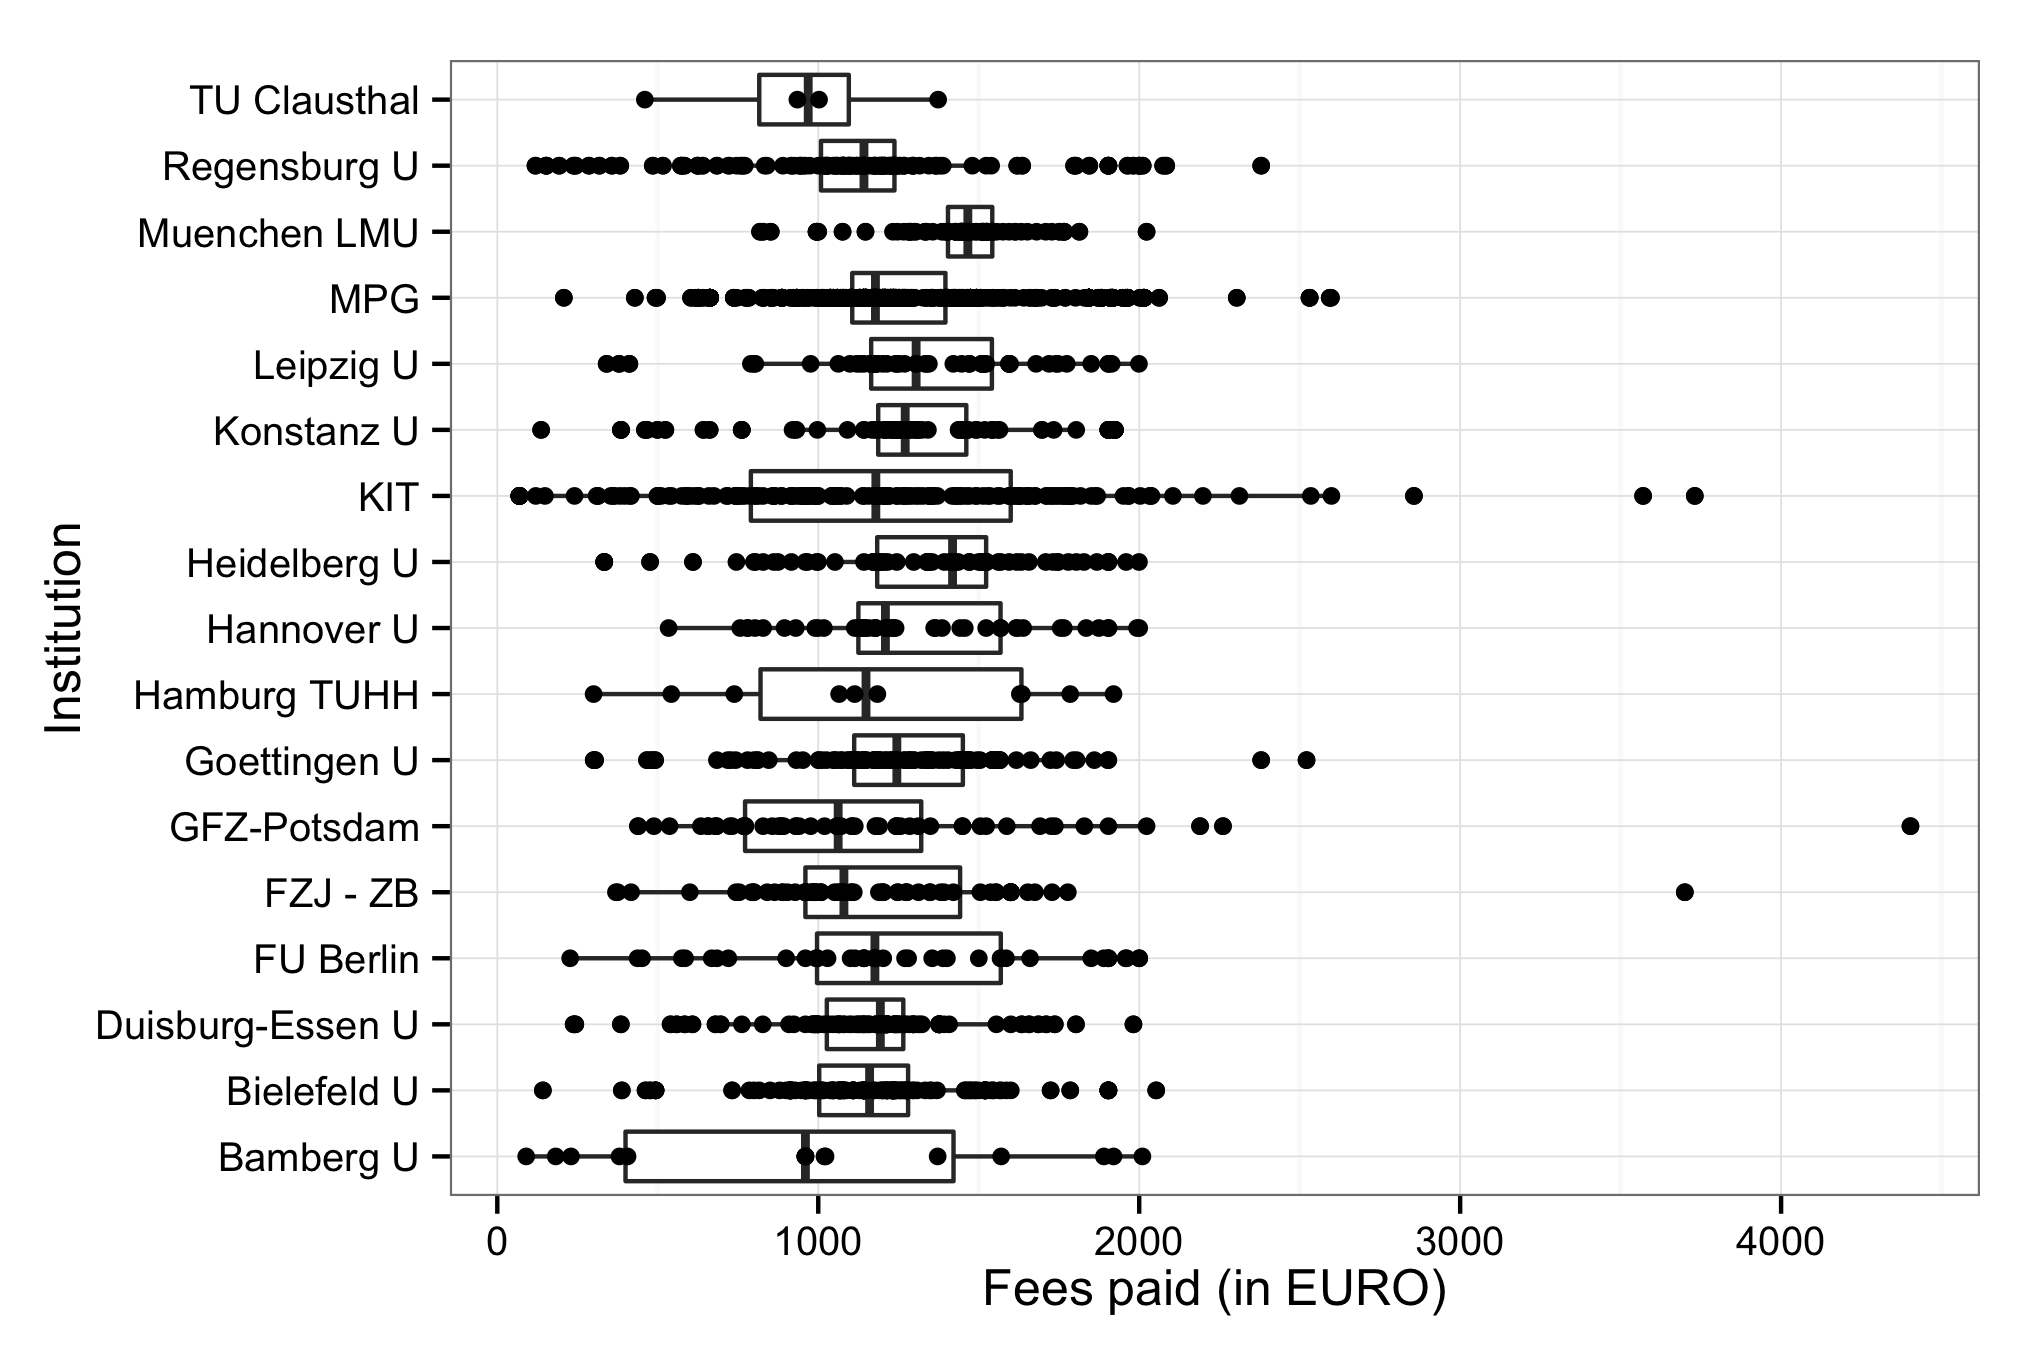
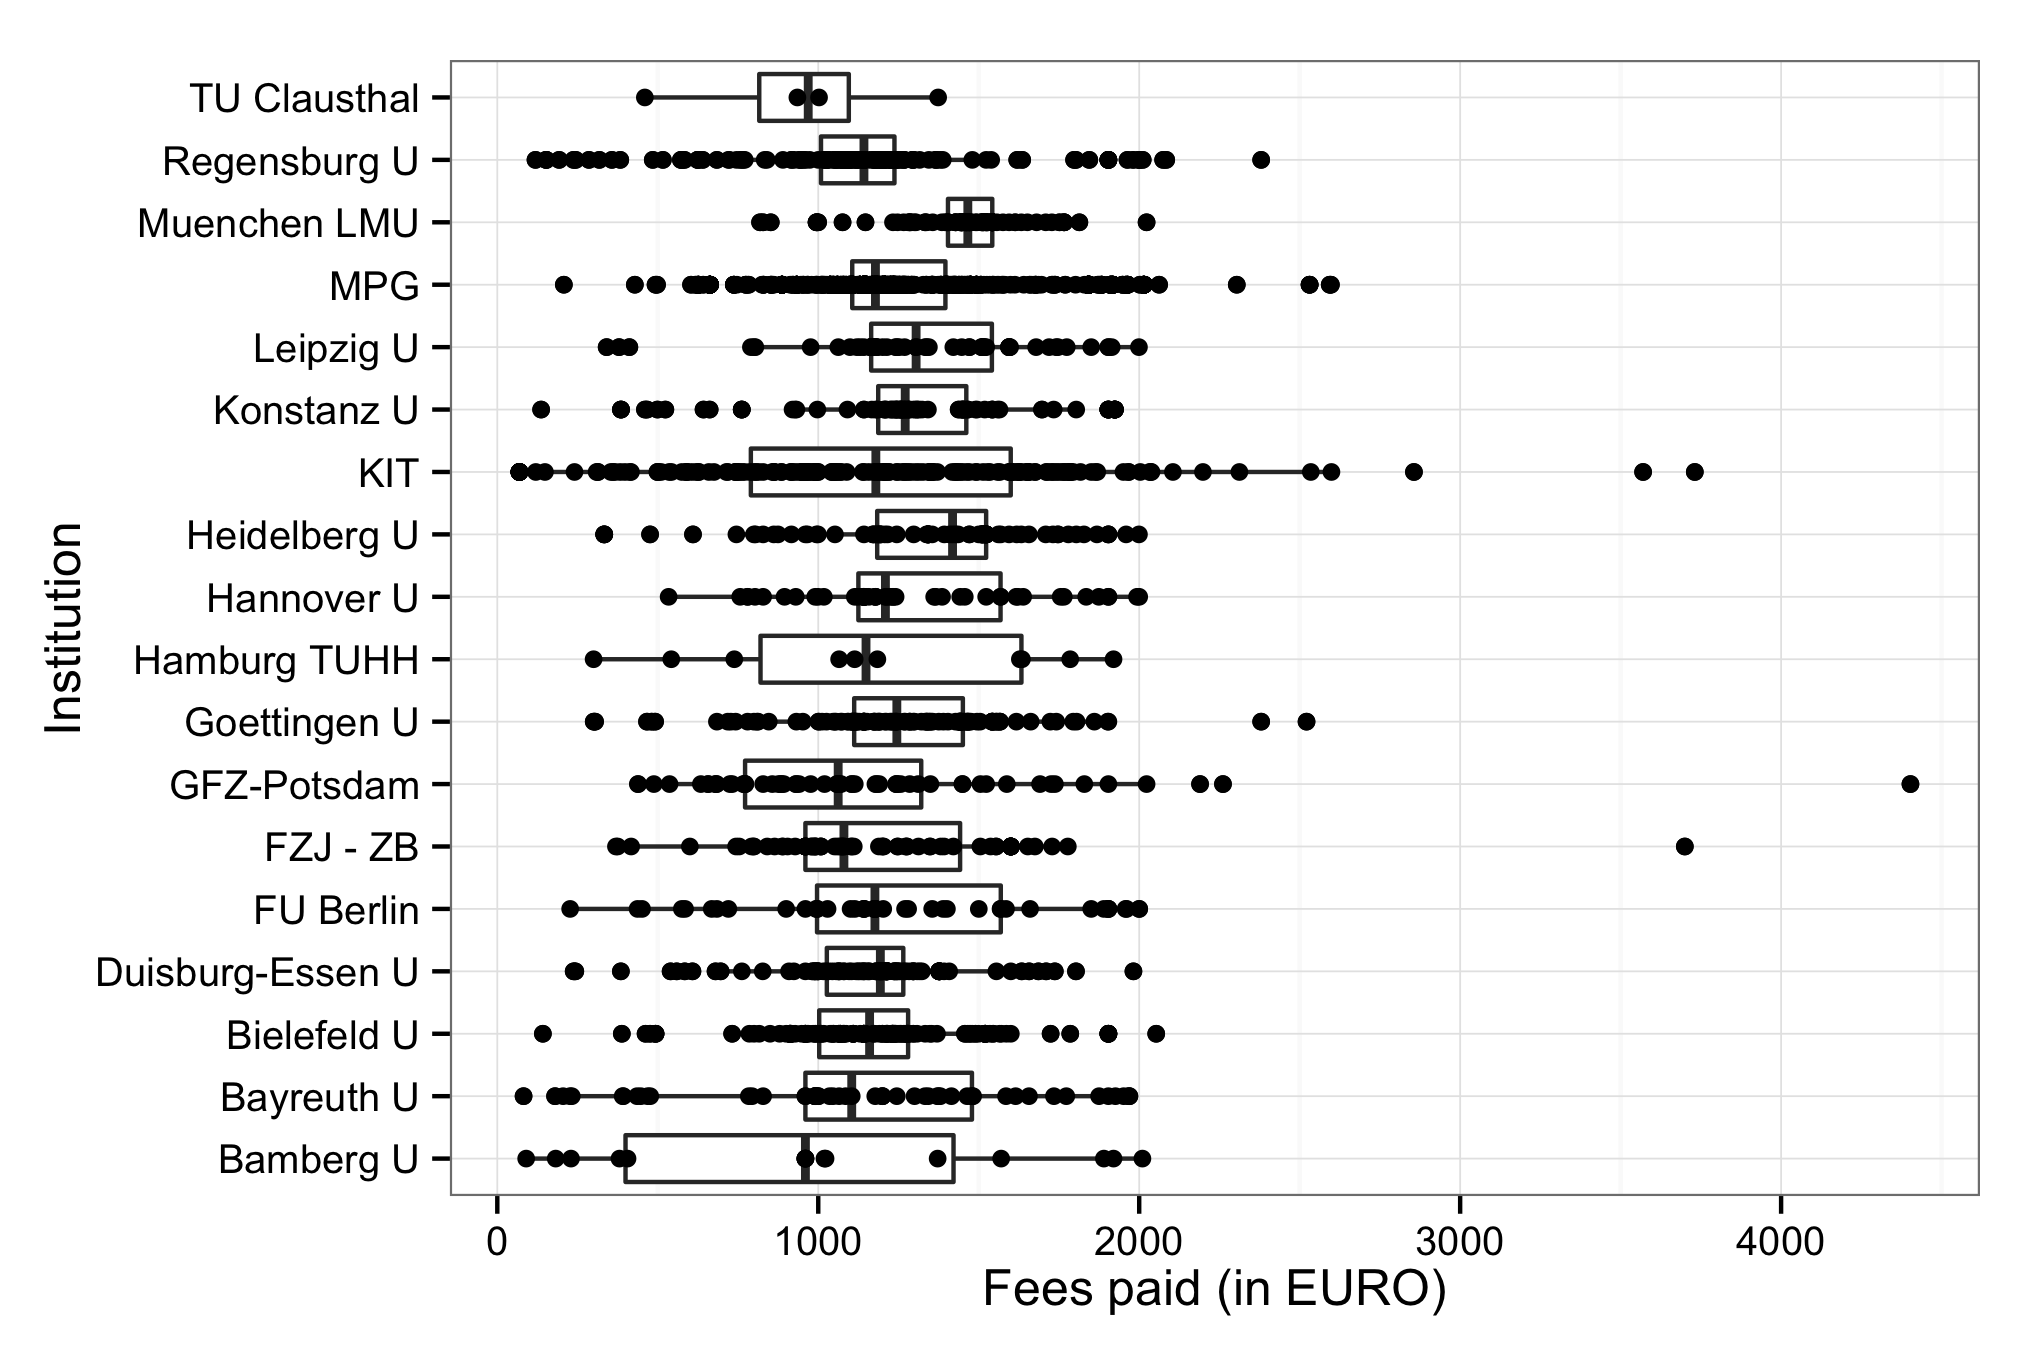
bayreuth added #35

diff --git a/README.md b/README.md
@@ -13,6 +13,7 @@ The aim of this repository is:
 
 So far, the following German universities have agreed to share information on paid author processing charges (APC):
 
+- [Bayreuth University](http://www.ub.uni-bayreuth.de/en/digitale_bibliothek/open_access/index.html)
 - [Bielefeld University](http://oa.uni-bielefeld.de/publikationsfonds.html)
 - [Clausthal University of Technology](http://www.ub.tu-clausthal.de/en/angebote-fuer-wissenschaftlerinnen/elektronisches-publizieren/publikationsfonds/)
 - [Hamburg University of Technology](https://www.tub.tu-harburg.de/publizieren/openaccess/)
@@ -47,7 +48,7 @@ The data content covers APCs as paid for by our central budget for the Max Planc
 
 
 
-At the moment, the dataset releases information on 2 397 articles, with total expenditure of 2 968 391€. Average fee is 1 238.4€.
+At the moment, the dataset releases information on 2 454 articles, with total expenditure of 3 032 909€. Average fee is 1 235.9€.
 
 View dataset on [GitHub](https://github.com/OpenAPC/openapc-de/blob/master/data/apc_de.csv).
 
@@ -55,6 +56,7 @@ View dataset on [GitHub](https://github.com/OpenAPC/openapc-de/blob/master/data/
 |                 | Articles| Fees paid in EURO| Mean Fee paid|
 |:----------------|--------:|-----------------:|-------------:|
 |Bamberg U        |       16|             15932|           996|
+|Bayreuth U       |       57|             64519|          1132|
 |Bielefeld U      |      160|            187296|          1171|
 |Duisburg-Essen U |      114|            130989|          1149|
 |FU Berlin        |       45|             56074|          1246|
@@ -137,8 +139,8 @@ This work is licensed under the Creative Commons Attribution 4.0 Unported Licens
 
 Bielefeld University Library archives a remote including version history. To cite:
 
-Apel, Jochen; Bertelmann, Roland; Beucke, Daniel; Deinzer, Gernot; Dorner, Andrea; Herb, Ulrich; Feldsien-Sudhaus, Inken; Franke, Fabian; Frick, Claudia; Geschuhn, Kai Karin; Jaeger, Doris;  Lützenkirchen, Frank; Oberländer, Anja; 
-Peil, Vitali; Pieper, Dirk; Schlachter, Michael; Schlegel, Birgit; Sikora, Adriana; Tullney, Marco; Vieler, Astrid; Witt, Sabine; Jahn, Najko; (2014): *Datasets on fee-based Open Access publishing across German Institutions*. Bielefeld University. [10.4119/UNIBI/UB.2014.18](http://dx.doi.org/10.4119/UNIBI/UB.2014.18)
+Apel, Jochen; Bertelmann, Roland; Beucke, Daniel; Deinzer, Gernot; Dorner, Andrea; Engelhardt, Clemens; Herb, Ulrich; Feldsien-Sudhaus, Inken; Franke, Fabian; Frick, Claudia; Geschuhn, Kai Karin; Jaeger, Doris;  Lützenkirchen, Frank; Kroiss, Stephanie; Oberländer, Anja; 
+Peil, Vitali; Pieper, Dirk; Schlachter, Michael; Schlegel, Birgit; Sikora, Adriana; Tullney, Marco; Vieler, Astrid; Witt, Sabine; Jahn, Najko; (2014 -): *Datasets on fee-based Open Access publishing across German Institutions*. Bielefeld University. [10.4119/UNIBI/UB.2014.18](http://dx.doi.org/10.4119/UNIBI/UB.2014.18)
 
 ## Acknowledgement
 
@@ -148,7 +150,7 @@ For data enrichment, sample visualisations and explorations we build on the work
 
 ## Contributors
 
-Jochen Apel, Roland Bertelmann, Daniel Beucke, Gernot Deinzer, Andrea Dorner, Ulrich Herb, Inken Feldsien-Sudhaus, Fabian Franke, Claudia Frick, Kai Karin Geschuhn, Doris Jaeger, Frank Lützenkirchen, Anja Oberländer, Vitali Peil, Dirk Pieper, Michael Schlachter, Birgit Schlegel, Adriana Sikora, Marco Tullney, Astrid Vieler, Sabine Witt, Najko Jahn
+Jochen Apel, Roland Bertelmann, Daniel Beucke, Gernot Deinzer, Andrea Dorner,  Clemens Engelhardt, Ulrich Herb, Inken Feldsien-Sudhaus, Fabian Franke, Claudia Frick, Kai Karin Geschuhn, Doris Jaeger, Stephanie Kroiss, Frank Lützenkirchen, Anja Oberländer, Vitali Peil, Dirk Pieper, Michael Schlachter, Birgit Schlegel, Adriana Sikora, Marco Tullney, Astrid Vieler, Sabine Witt, Najko Jahn
 
 ## Contact
 
